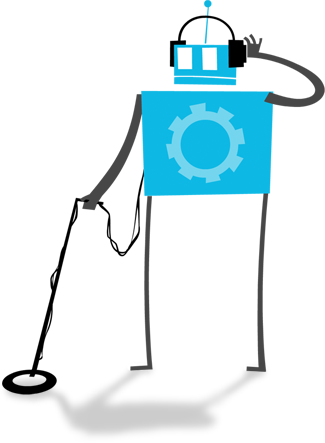
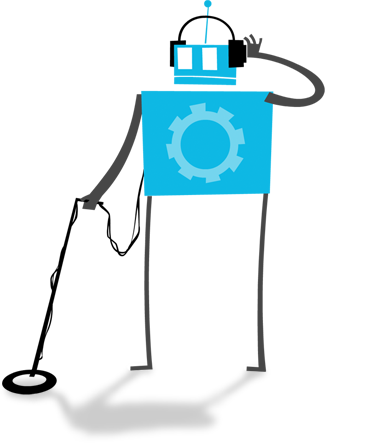
Replaced & reworked 404 page, and made it responsive for some reason

Changed region(s): [[0.0, 0.0, 1.0, 0.9684], [0.6769, 0.8804, 0.7077, 0.9097]]

diff --git a/src/components/404.scss b/src/components/404.scss
@@ -1,0 +1,63 @@
+@import './include.scss';
+
+#notfound {
+	background: #fff;
+	width: 100vw;
+	max-width: 1200px;
+	min-width: 600px;
+
+	margin: 0 auto;
+
+	.page {
+		position: relative;
+		display: block;
+
+		width: 80%;
+		height: 285px;
+		padding-top: 200px;
+		margin: 50px auto;	
+	
+		background: url('/img/kogneato_metal_detecting.png') 66% no-repeat,
+			url('/img/404_logo_balls.png') 80% no-repeat,
+			url('/img/404_beachandocean.png') 0 255px no-repeat;
+		background-position: right center;
+
+		h1 {
+			width: 50%;
+			height: 50%;
+			background: url('/img/404_insand.png') top center no-repeat;
+			background-size: contain;
+			text-indent: -9000px;
+			position: absolute;
+			top: 30px;
+			left: 10px;
+		}
+
+		p {
+			position: relative;
+			top: 100px;
+			padding-left: 5%;
+			text-shadow: 0 1px 0 rgba(255, 255, 255, 0.75);
+			font-size: 18px;
+			font-weight: 700;
+			text-align: left;
+		}
+
+		@media (max-width: 625px) {
+			h1 {
+				left: 5px;
+
+				width: 33%;
+				height: 33%;
+			}
+
+			p {
+				position: relative;
+				top: 40px;
+				background: rgba(255,255,255,0.85);
+				padding: 15px 5px;
+				text-align: center;
+			}
+		}
+	}
+}

diff --git a/src/components/404.jsx b/src/components/404.jsx
@@ -1,5 +1,6 @@
 import React from 'react'
 import Header from './header'
+import './404.scss'
 
 const Action404 = () => (
 	<>

diff --git a/fuel/app/config/css.php b/fuel/app/config/css.php
@@ -41,7 +41,7 @@ return [
 		'rollback_dialog' => [$webpack.'css/util-rollback-confirm.css'],
 		'media_import' => [$webpack.'css/media.css'],
 		'help' => [$webpack.'css/help.css'],
-		'errors' => [$webpack.'css/errors.css'],
+		'errors' => [$webpack.'css/404.css'],
 		'fonts' => [
 			$g_fonts.'css2?family=Kameron:wght@700&display=block',
 			$g_fonts.'css2?family=Lato:ital,wght@0,300;0,400;0,700;0,900;1,700&display=block',
